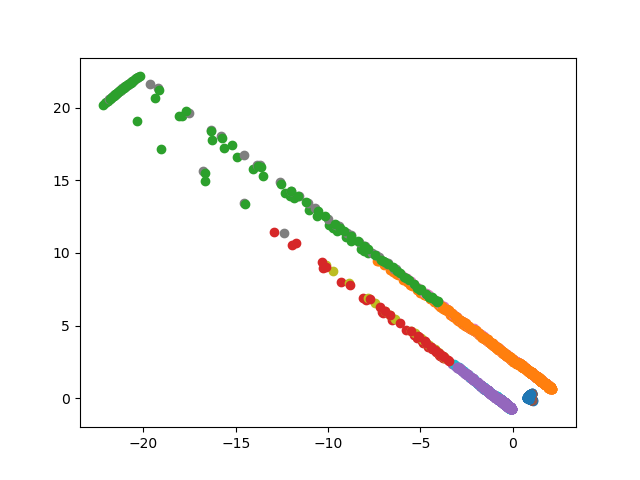
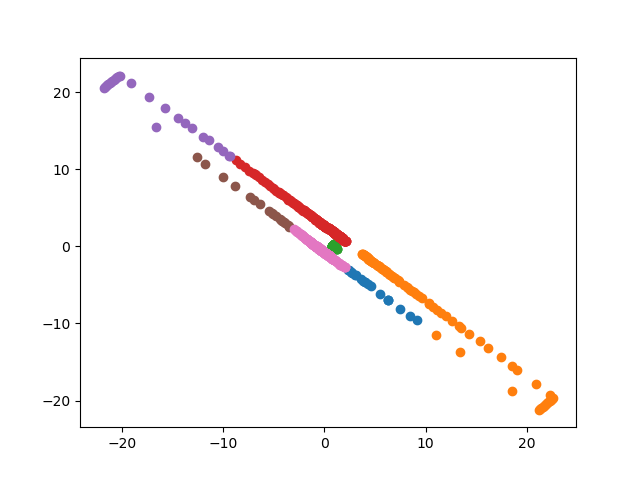
testing

diff --git a/wangetall/perception/lidarUpdater.py b/wangetall/perception/lidarUpdater.py
@@ -19,7 +19,7 @@ class lidarUpdater:
         self.InitAndMerge = InitAndMerge()
         # self.clean_up_states = CleanUpStates()
         self.num_beams = 1080
-        self.fov = 4.7
+        self.fov = 5.5
         self.theta_init = np.linspace(-self.fov/2., self.fov/2., num=self.num_beams)
         self.i = 0
         self.i2 = 0
@@ -75,6 +75,7 @@ class lidarUpdater:
 
     def associate_and_update(self, data, dt):
         clusters = self.cl.cluster(self.laserpoints)
+        # plt.figure()
         # for key in clusters.keys():
         #     selected_points = self.laserpoints[clusters[key]]
         #     plt.scatter(selected_points[:,0], selected_points[:,1])
@@ -129,14 +130,14 @@ class lidarUpdater:
                 initial_association[1, y_ind] = pairs[x_ind, 1]
 
                 self.jcbb.assign_values(xs = self.state.xs, scan_data = self.polar_laser_points[tgt_points], track = track.kf.x, P = track.kf.P[0:2,0:2], static=False, psi=self.state.xs[2])
-                if track.id == 1:
+                if track.id == 2:
                     scan_x, scan_y = Helper.convert_scan_polar_cartesian_joint(self.polar_laser_points[tgt_points])
-                    # plt.figure()
+                    plt.figure()
                     # plt.xlim(-15,15)
                     # plt.ylim(-15,15)
                     plt.scatter(scan_x, scan_y, c="b", marker="o", alpha = 0.5, label="Scan Data")
                     plt.scatter(track.xp[:,0]+track.kf.x[0], track.xp[:,1]+track.kf.x[1], c="orange", marker="o", alpha = 0.1, label="Boundary Points")
-                    plt.savefig("output_plots/{}.png".format(self.i))
+                    # plt.savefig("output_plots/{}.png".format(self.i))
                     self.i += 1
 
                 association = self.jcbb.run(initial_association, track.xp)
@@ -167,11 +168,10 @@ class lidarUpdater:
                     measurement[3] = tform.translation[0]/dt + self.state.xs[3]
                     measurement[4] = tform.translation[1]/dt + self.state.xs[4]
                     measurement[5] = angle
-                    if track.id == 1:
-                        print("Received a new reading!")
-                        # print("Self state vel x {}, vely {}".format(self.state.xs[3], self.state.xs[4]))
-                        # print("Tform {}".format(tform))
-                        # print("Measurement {}".format(measurement[3:5]))
+                    print("Track {} received a new reading!".format(track.id))
+                    # print("Self state vel x {}, vely {}".format(self.state.xs[3], self.state.xs[4]))
+                    # print("Tform {}".format(tform))
+                    print("Measurement {}".format(measurement[3:5]))
                     self.Updater.run(measurement)
 
             

diff --git a/wangetall/tracker_gym.py b/wangetall/tracker_gym.py
@@ -93,6 +93,7 @@ def main():
         ax.set_xlim([-30, 30])
         ax.set_ylim([-30,30])
     count = 0
+    # breakpoint()
     while not done:
         speed, steer = planner.plan(obs['poses_x'][0], obs['poses_y'][0], obs['poses_theta'][0], work['tlad'], work['vgain'])
         speed2, steer2 = planner2.plan(obs['poses_x'][1], obs['poses_y'][1], obs['poses_theta'][1], work['tlad'], work['vgain'])
